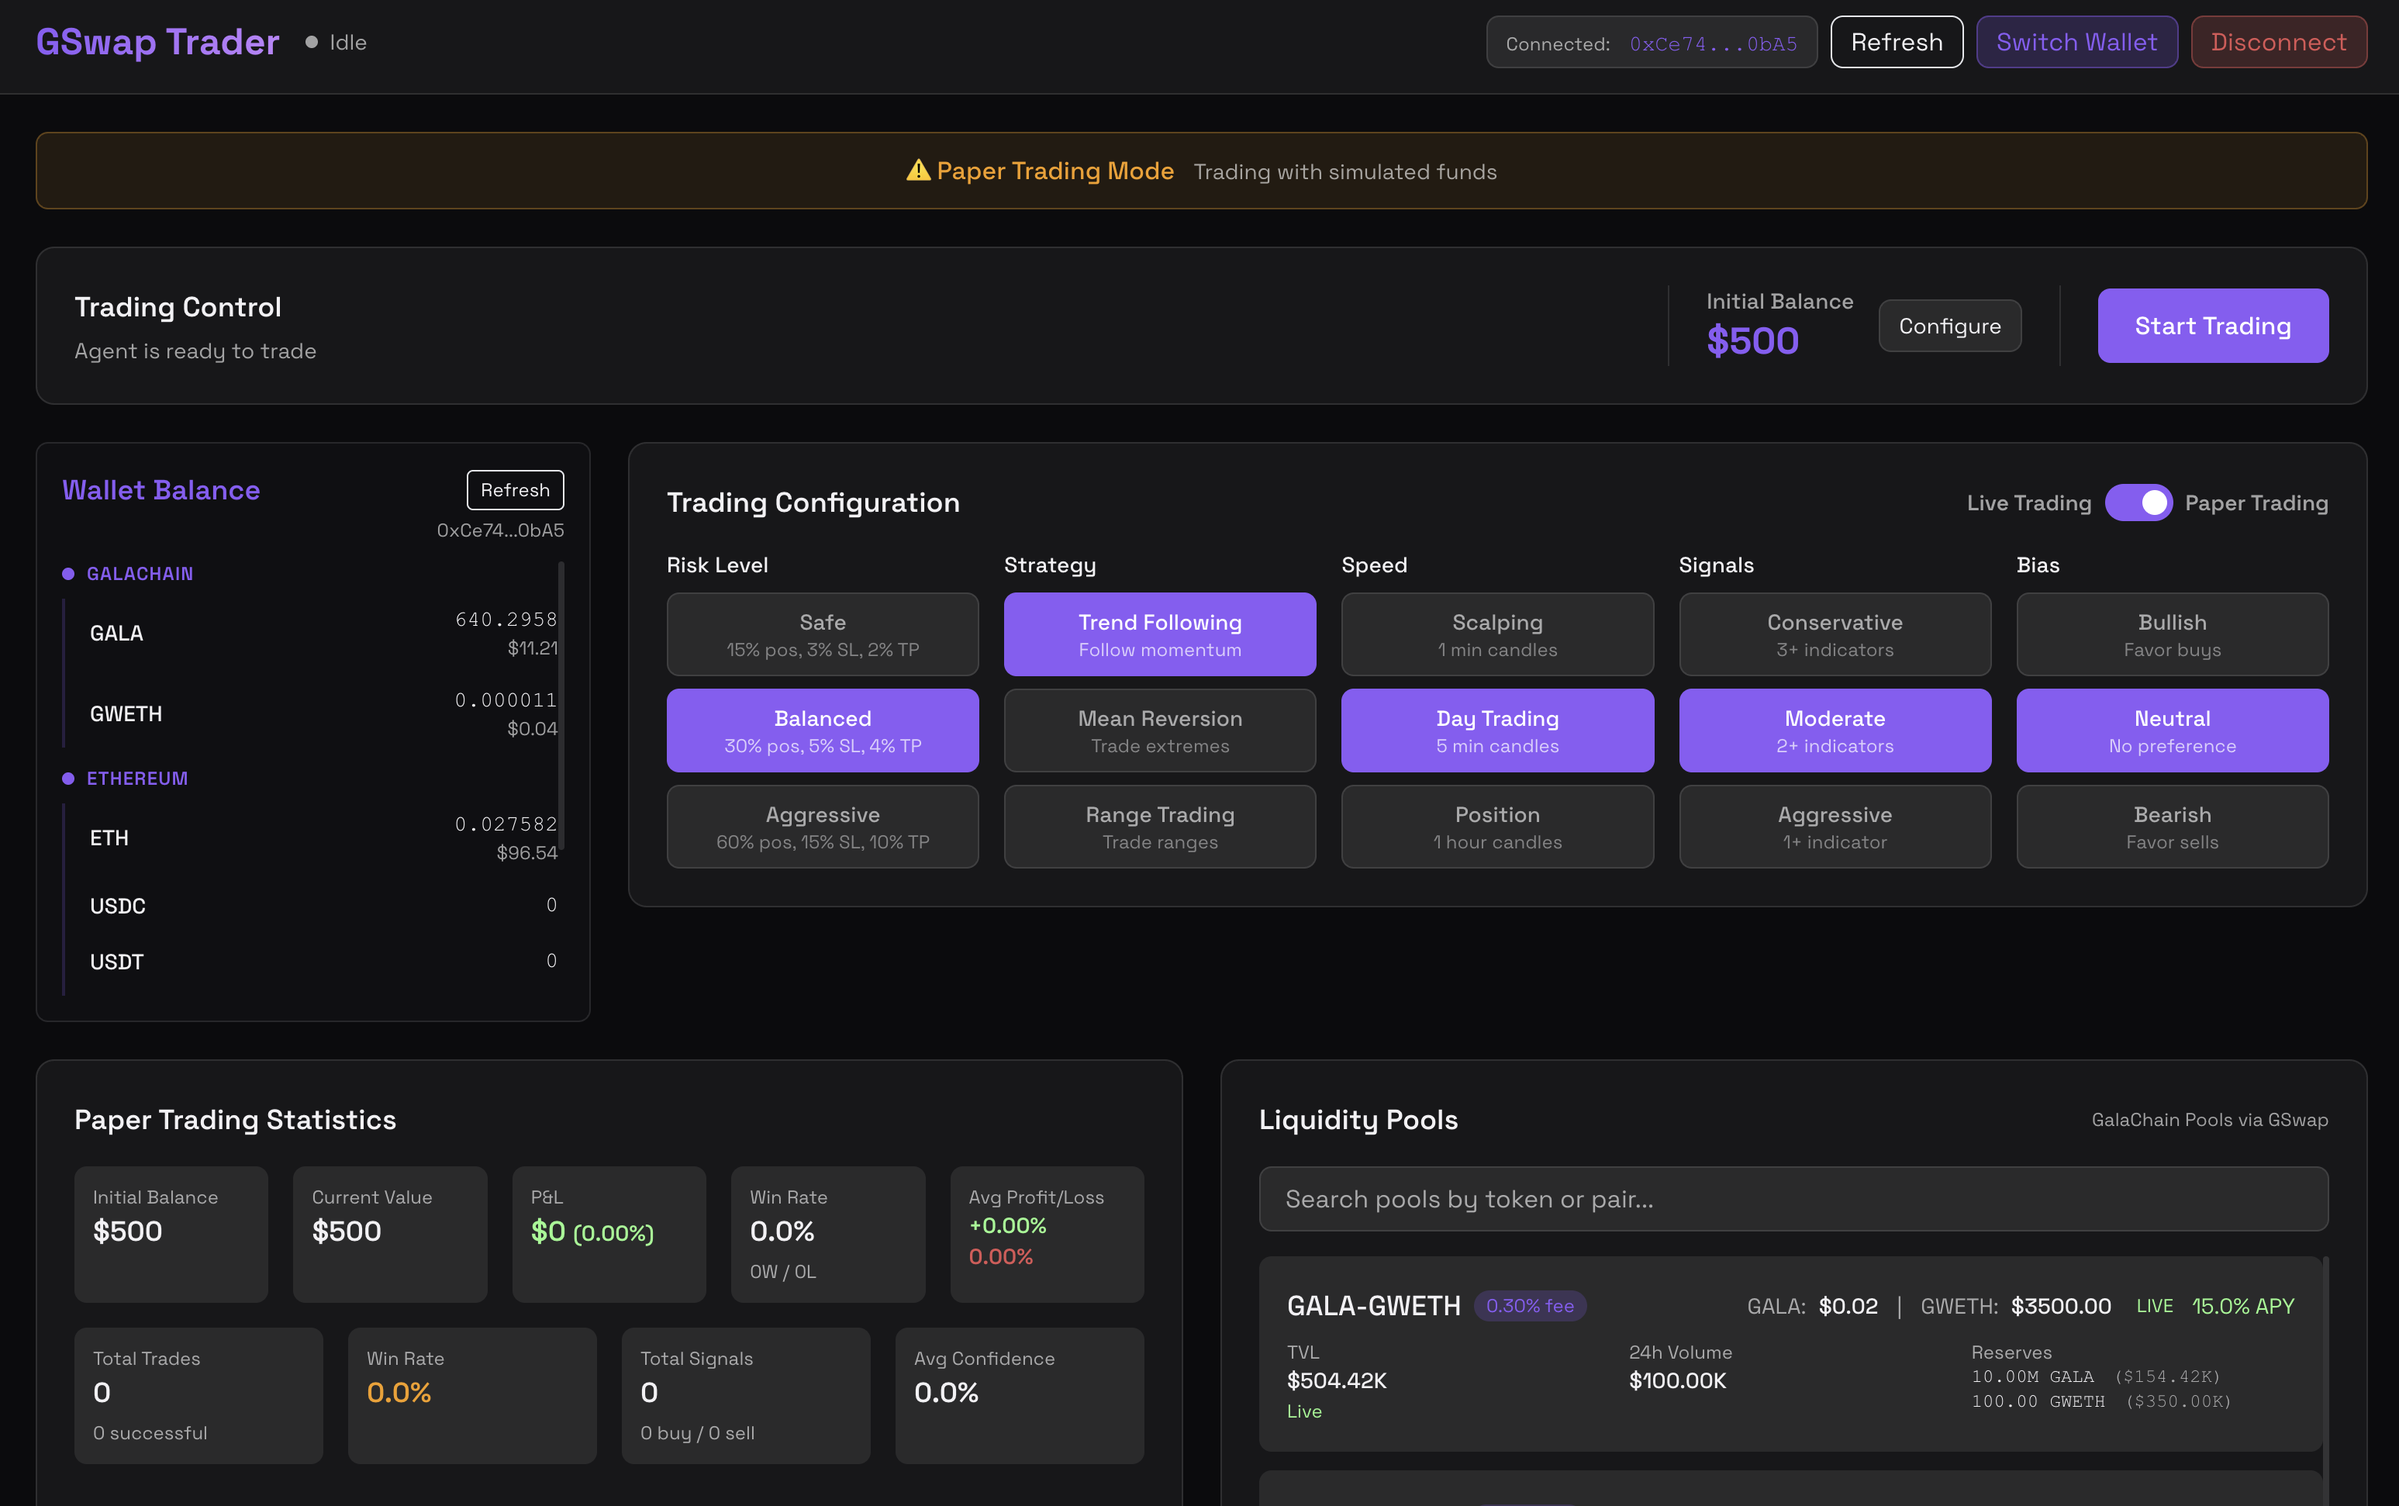
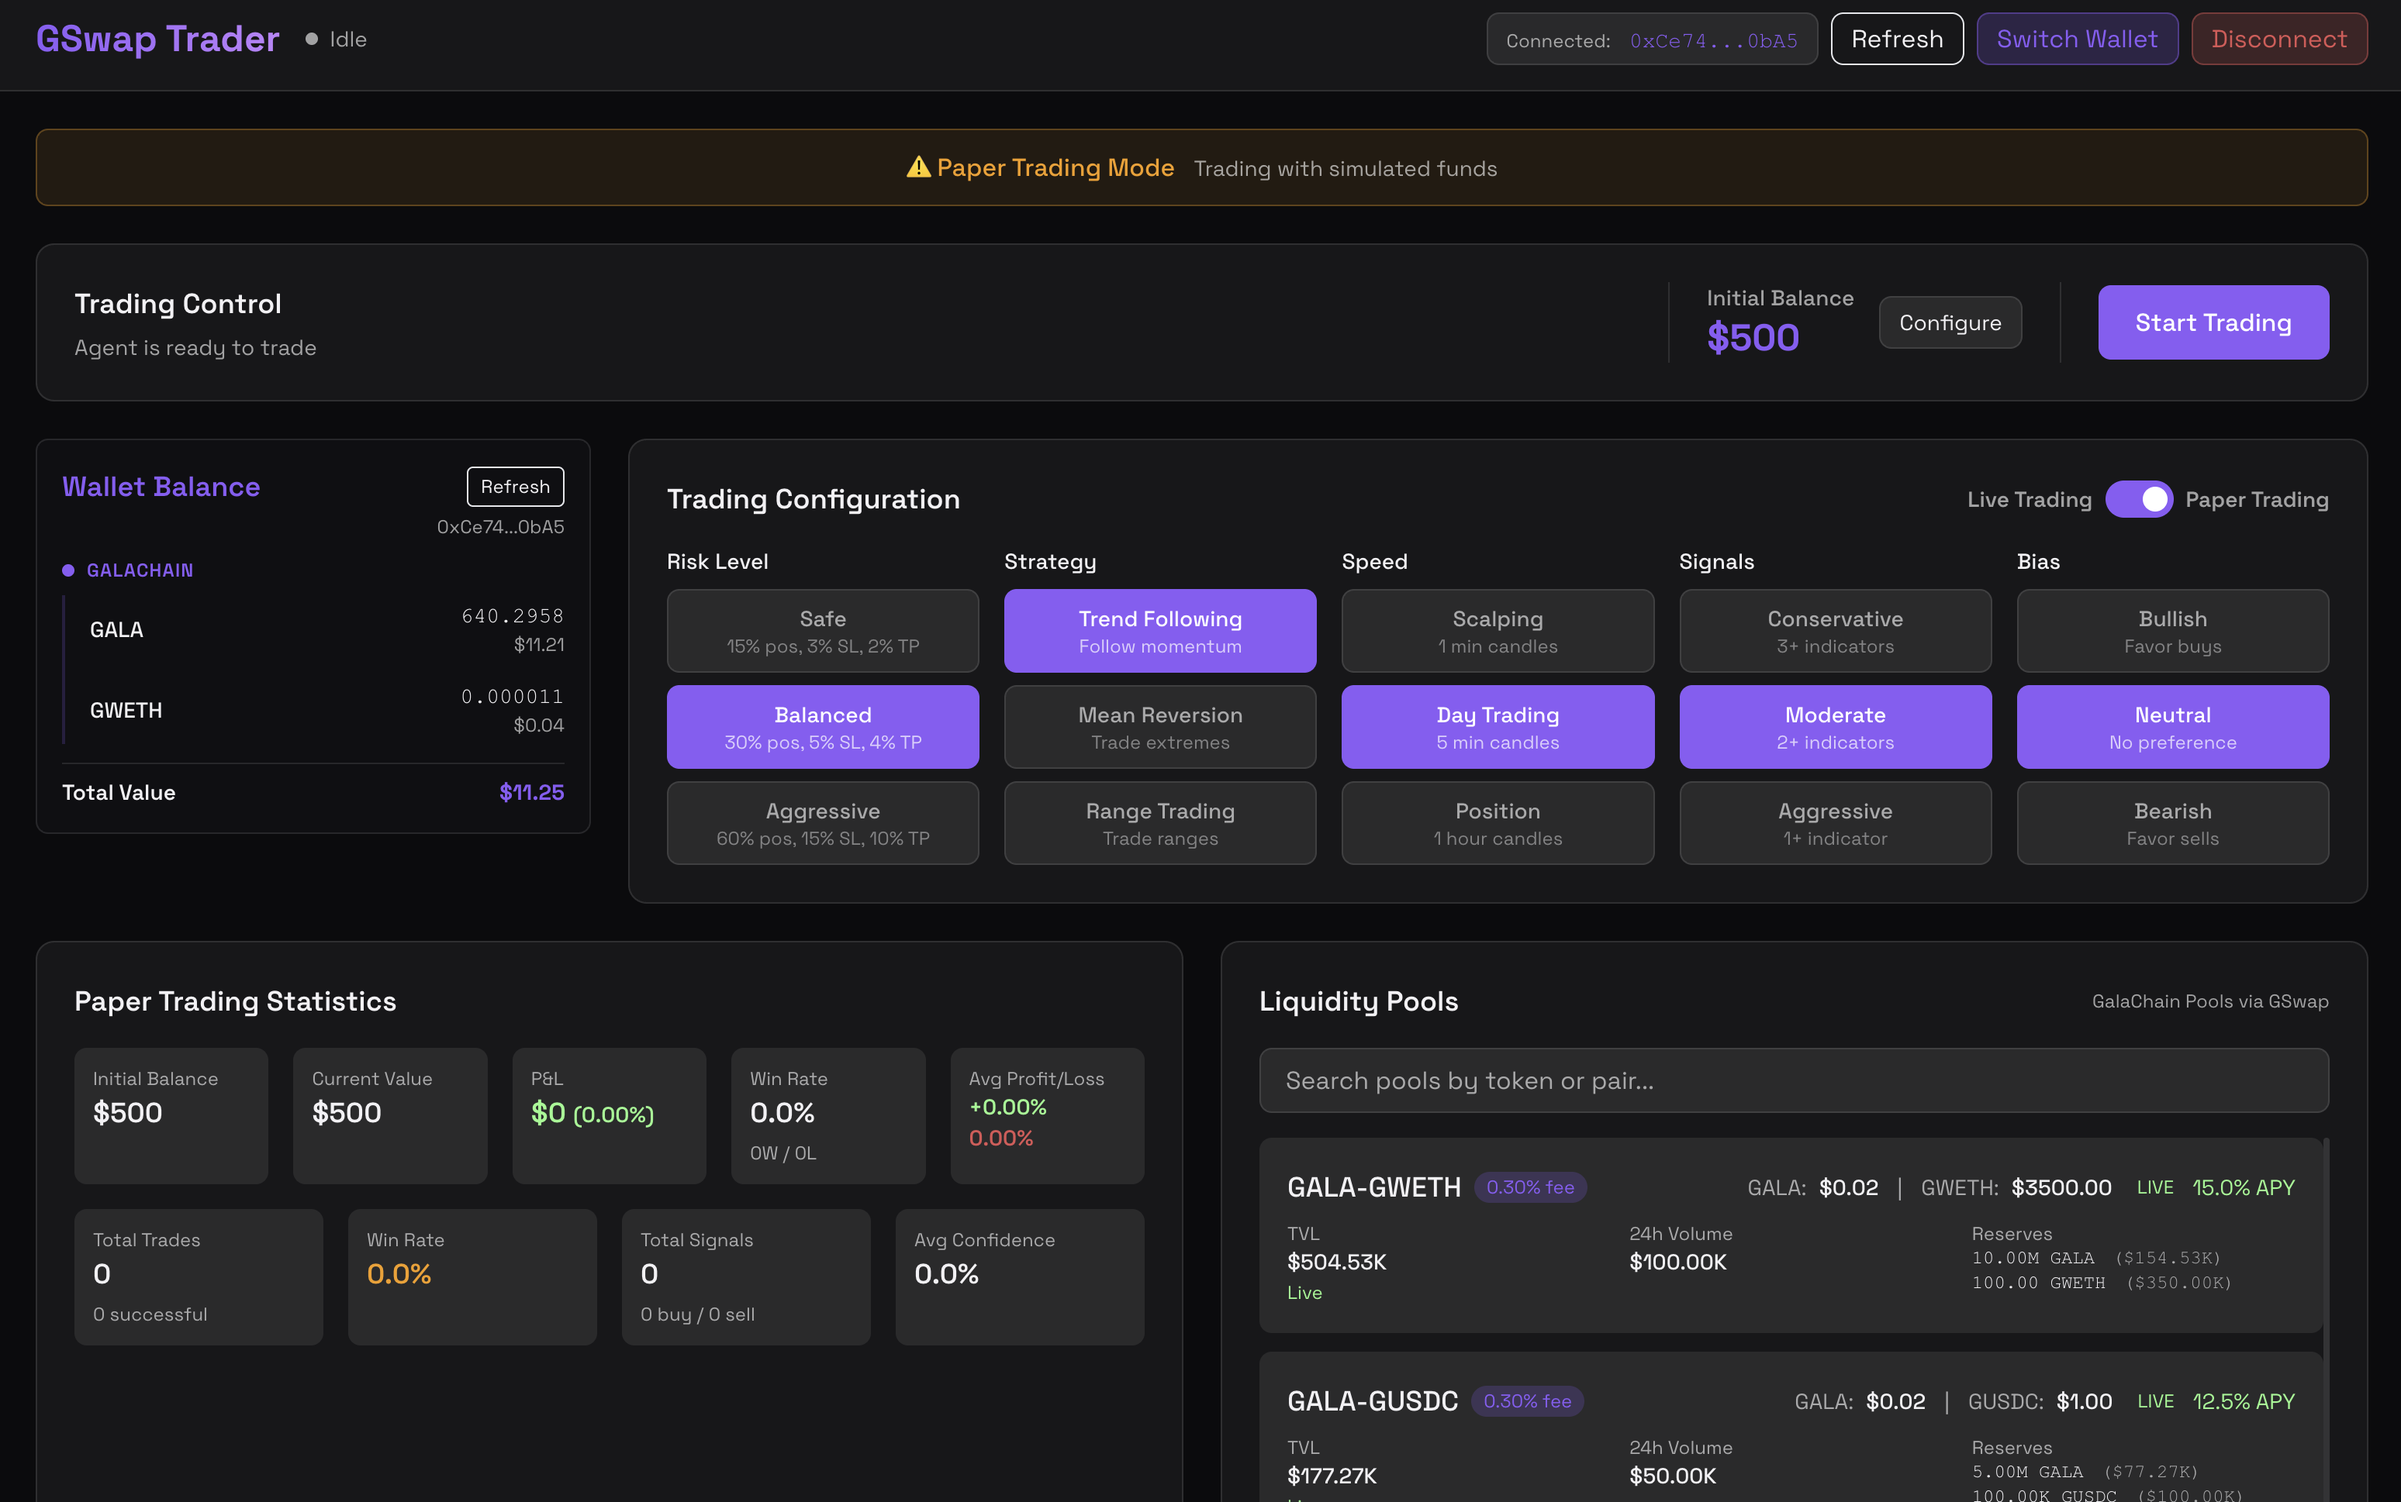
Display only GalaChain network balances
- Remove Ethereum and other network balances from WalletBalancePanel
- Simplify wallet display to focus exclusively on GalaChain tokens
- Update empty state message to specify "GalaChain balances"
- Remove chain ID display and network name logic
- Clean up unused variables (otherBalances, networkName)

This change aligns the wallet display with the GSwap DEX focus on GalaChain network.

🤖 Generated with Claude Code

diff --git a/src/lib/components/WalletBalancePanel.svelte b/src/lib/components/WalletBalancePanel.svelte
@@ -2,21 +2,10 @@
   import { walletStore, walletService } from '$lib/services/wallet';
   import { walletBalances } from '$lib/stores/trading';
 
+  // Only show GalaChain balances
   $: galaChainBalances = $walletBalances.filter(b => b.token.includes('(GalaChain)'));
-  $: otherBalances = $walletBalances.filter(b => !b.token.includes('(GalaChain)'));
-  $: totalValue = $walletBalances.reduce((sum, b) => sum + (b.value || 0), 0);
-  $: hasBalances = $walletBalances && $walletBalances.length > 0;
-
-  $: networkName = (() => {
-    if (!$walletStore.chainId) return 'Unknown';
-    switch($walletStore.chainId) {
-      case 1: return 'Ethereum';
-      case 56: return 'BSC';
-      case 137: return 'Polygon';
-      case 42161: return 'Arbitrum';
-      default: return `Chain ${$walletStore.chainId}`;
-    }
-  })();
+  $: totalValue = galaChainBalances.reduce((sum, b) => sum + (b.value || 0), 0);
+  $: hasBalances = galaChainBalances && galaChainBalances.length > 0;
 
   async function refreshBalances() {
     await walletService.updateBalances();
@@ -57,63 +46,32 @@
 
     {#if hasBalances}
       <div class="space-y-3 overflow-y-auto" style="max-height: 280px;">
-        <!-- GalaChain Balances Section -->
-        {#if galaChainBalances.length > 0}
-          <div>
-            <div class="flex items-center gap-2 mb-2">
-              <div class="w-2 h-2 bg-accent rounded-full animate-pulse"></div>
-              <span class="text-xs font-semibold text-accent uppercase tracking-wider">GalaChain</span>
-            </div>
-            <div class="space-y-2 pl-4 border-l-2 border-accent/20">
-              {#each galaChainBalances as balance}
-                <div class="flex items-center justify-between py-1">
-                  <div class="flex items-center gap-2">
-                    <span class="text-sm font-medium text-foreground">{getTokenDisplayName(balance.token)}</span>
-                  </div>
-                  <div class="text-right">
-                    <div class="text-sm font-mono text-foreground">
-                      {formatBalance(balance.balance)}
-                    </div>
-                    {#if balance.value && balance.value > 0}
-                      <div class="text-xs text-muted">
-                        ${balance.value.toFixed(2)}
-                      </div>
-                    {/if}
-                  </div>
-                </div>
-              {/each}
-            </div>
+        <!-- GalaChain Balances -->
+        <div>
+          <div class="flex items-center gap-2 mb-2">
+            <div class="w-2 h-2 bg-accent rounded-full animate-pulse"></div>
+            <span class="text-xs font-semibold text-accent uppercase tracking-wider">GalaChain</span>
           </div>
-        {/if}
-
-        <!-- Other Network Balances -->
-        {#if otherBalances.length > 0}
-          <div>
-            <div class="flex items-center gap-2 mb-2 {galaChainBalances.length > 0 ? 'mt-3' : ''}">
-              <div class="w-2 h-2 bg-accent rounded-full animate-pulse"></div>
-              <span class="text-xs font-semibold text-accent uppercase tracking-wider">{networkName}</span>
-            </div>
-            <div class="space-y-2 pl-4 border-l-2 border-accent/20">
-              {#each otherBalances as balance}
-                <div class="flex items-center justify-between py-1">
-                  <div class="flex items-center gap-2">
-                    <span class="text-sm font-medium text-foreground">{balance.token}</span>
-                  </div>
-                  <div class="text-right">
-                    <div class="text-sm font-mono text-foreground">
-                      {formatBalance(balance.balance)}
-                    </div>
-                    {#if balance.value}
-                      <div class="text-xs text-muted">
-                        ${balance.value.toFixed(2)}
-                      </div>
-                    {/if}
-                  </div>
+          <div class="space-y-2 pl-4 border-l-2 border-accent/20">
+            {#each galaChainBalances as balance}
+              <div class="flex items-center justify-between py-1">
+                <div class="flex items-center gap-2">
+                  <span class="text-sm font-medium text-foreground">{getTokenDisplayName(balance.token)}</span>
                 </div>
-              {/each}
-            </div>
+                <div class="text-right">
+                  <div class="text-sm font-mono text-foreground">
+                    {formatBalance(balance.balance)}
+                  </div>
+                  {#if balance.value && balance.value > 0}
+                    <div class="text-xs text-muted">
+                      ${balance.value.toFixed(2)}
+                    </div>
+                  {/if}
+                </div>
+              </div>
+            {/each}
           </div>
-        {/if}
+        </div>
 
         {#if totalValue > 0}
           <div class="pt-2 mt-2 border-t border-border-subtle">
@@ -128,11 +86,8 @@
       </div>
     {:else}
       <div class="text-center py-4">
-        <p class="text-sm text-muted mb-2">No balances detected</p>
+        <p class="text-sm text-muted mb-2">No GalaChain balances detected</p>
         <p class="text-xs text-muted">Click "Refresh" to update</p>
-        <div class="text-xs text-muted mt-2">
-          Chain ID: {$walletStore.chainId || 'Unknown'}
-        </div>
       </div>
     {/if}
   </div>
